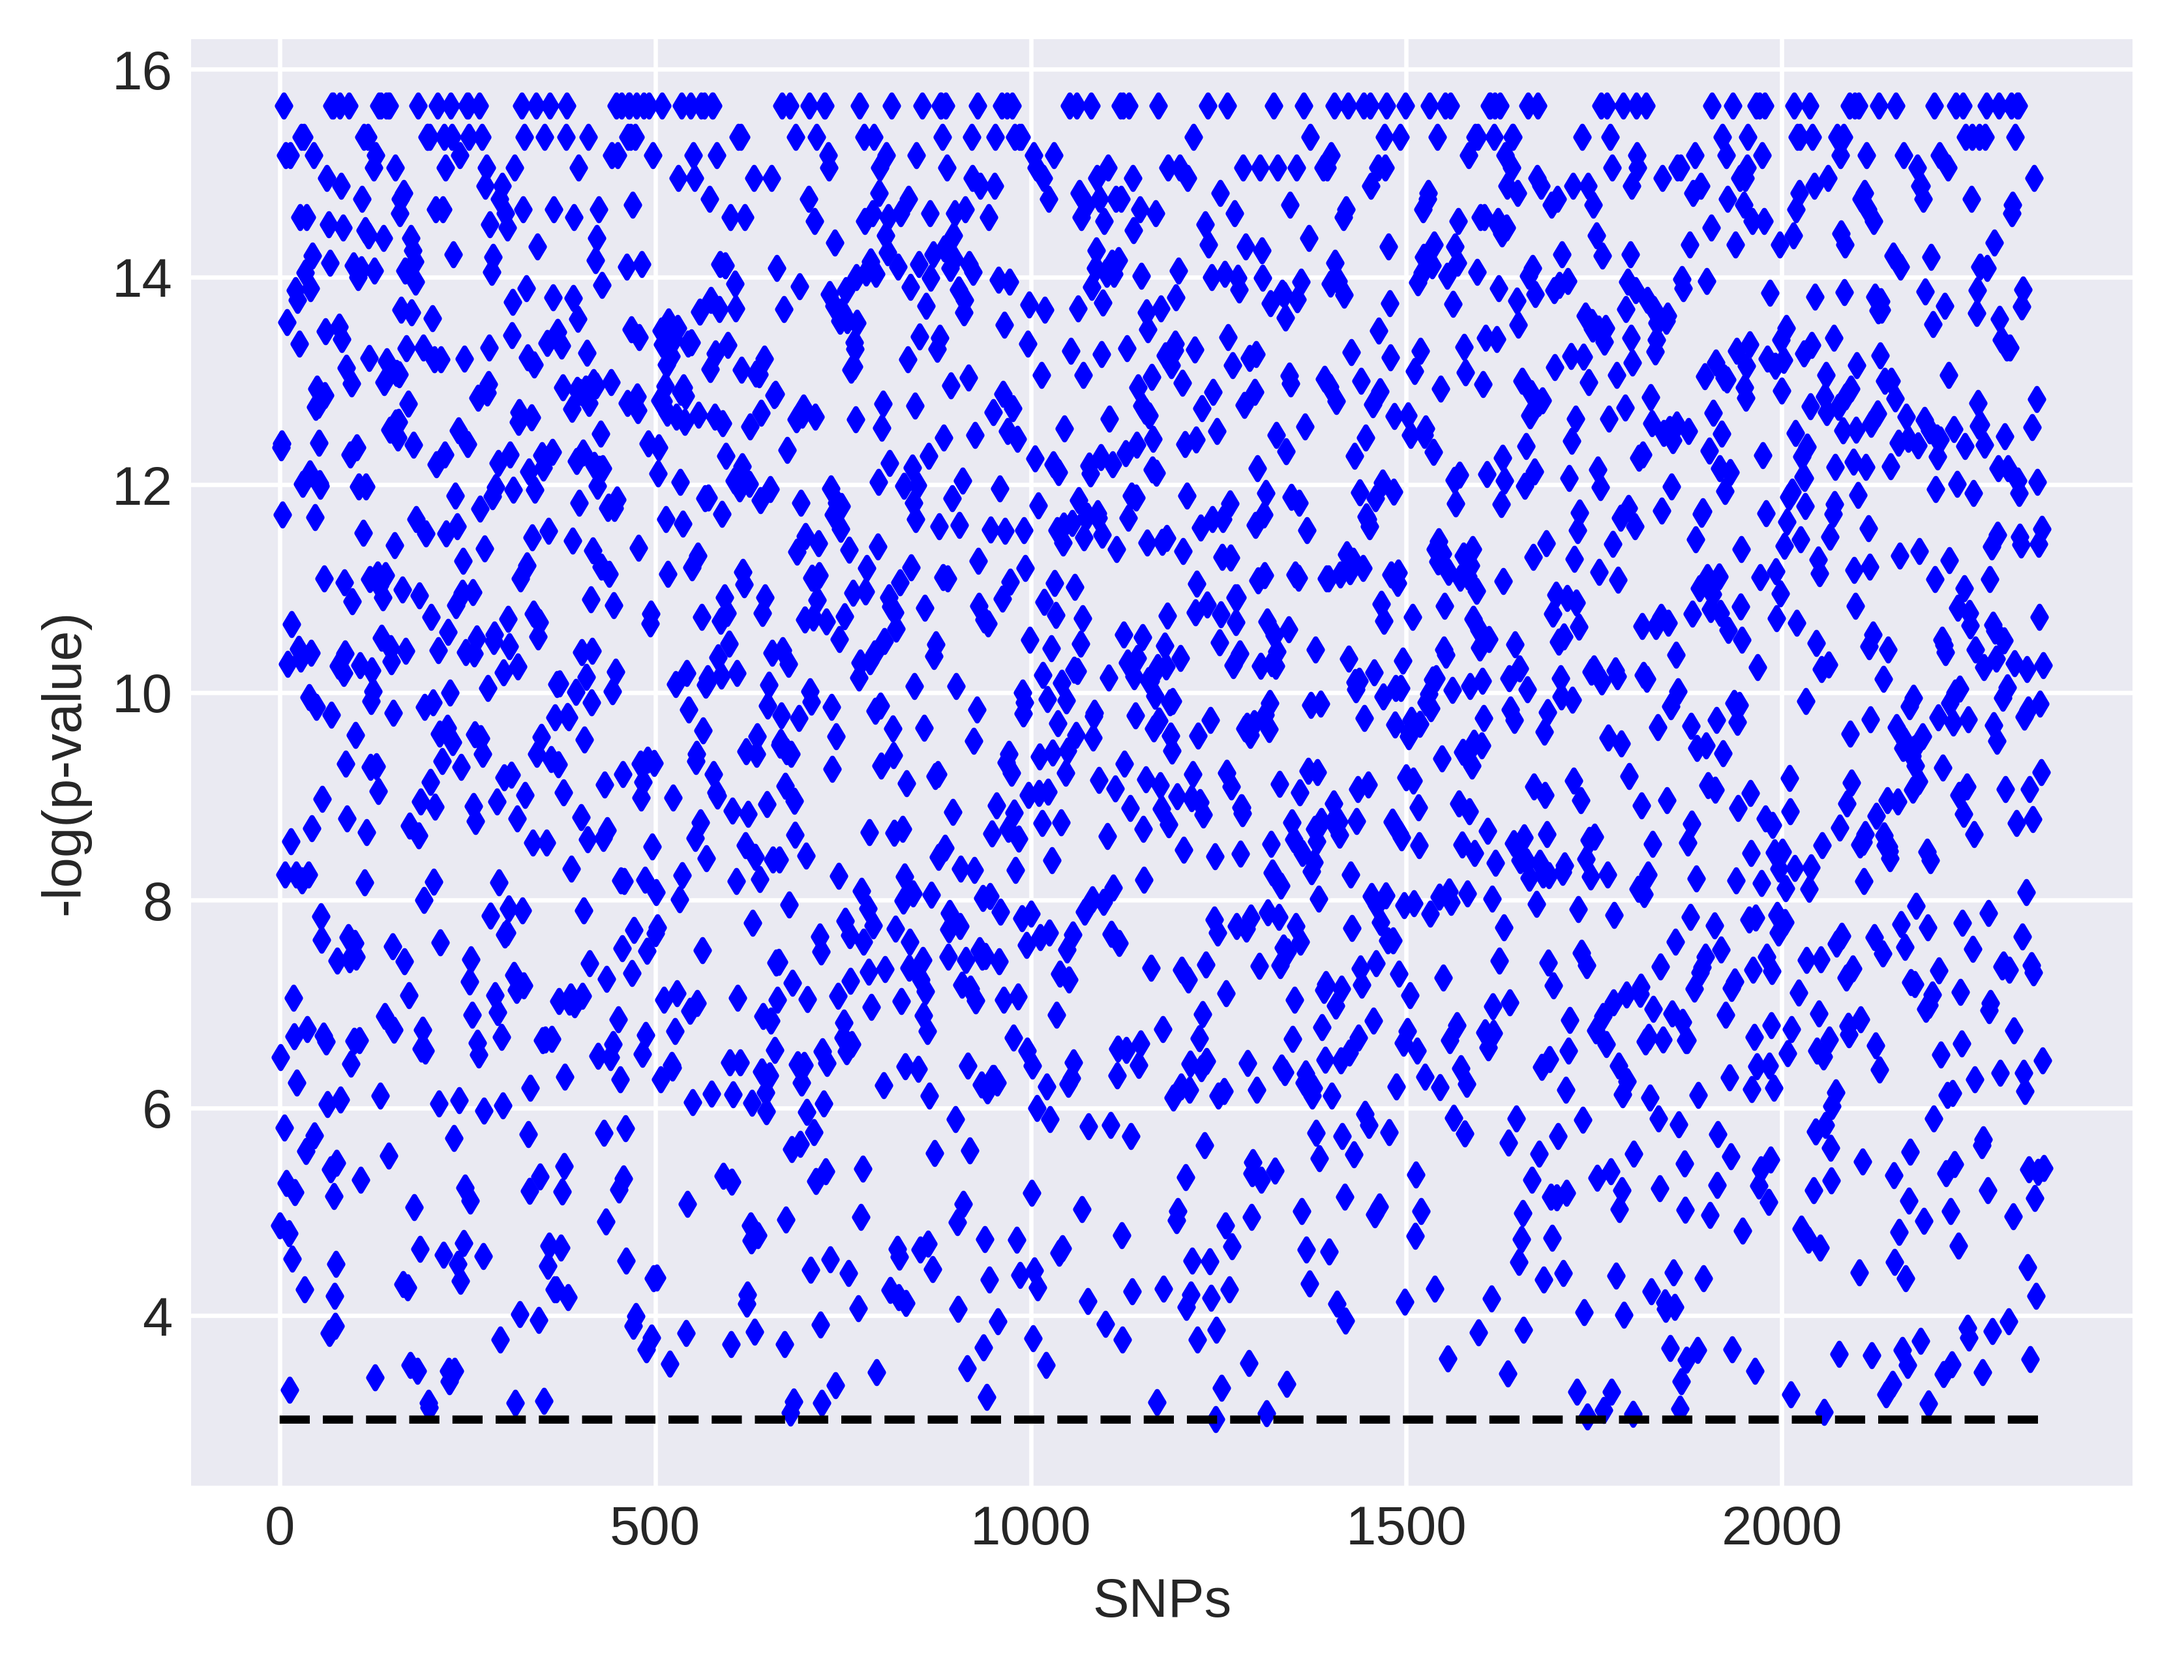
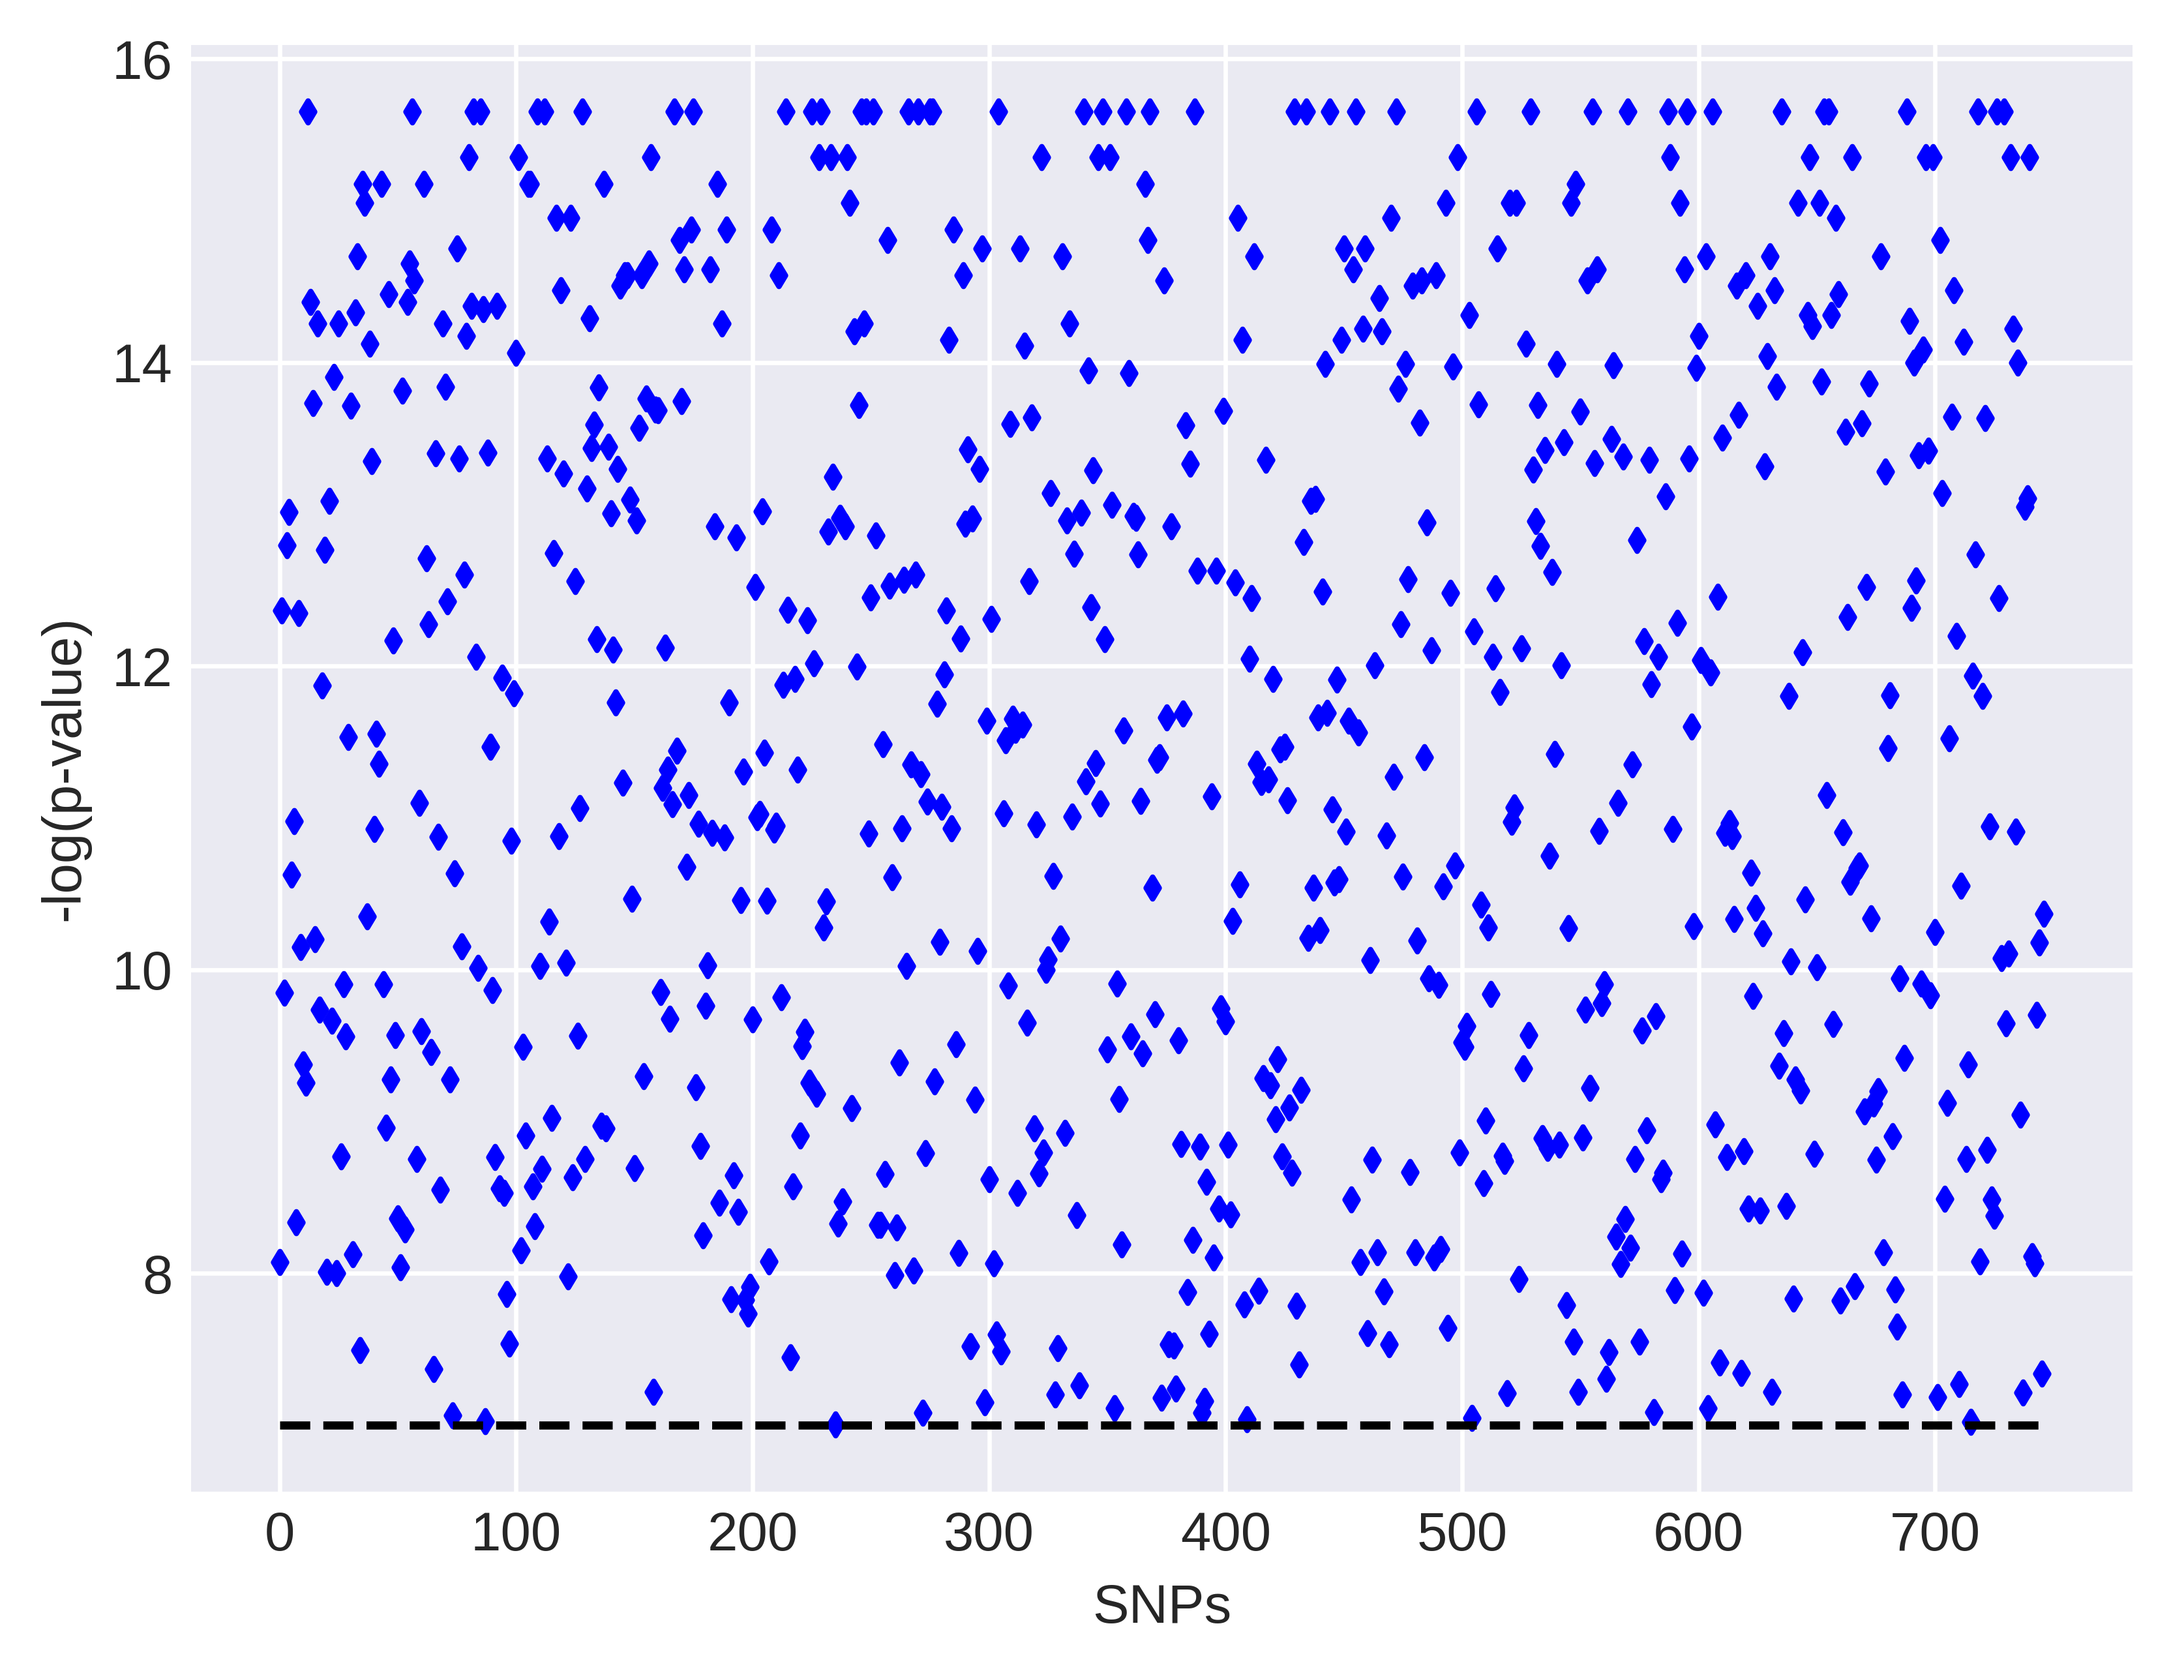
sorted significant SNP output

diff --git a/SimulatedAlleleCode/realdata_clustrat.py b/SimulatedAlleleCode/realdata_clustrat.py
@@ -45,7 +45,7 @@ if __name__ == '__main__':
     #print(' ')
     m = X.shape[0]
     n = X.shape[1]
-    pvalue = 1e-3
+    pvalue = 1e-7
 
     print('##################### Normalizing data...')
     norm_time = time.time()
@@ -129,6 +129,7 @@ if __name__ == '__main__':
     data_frame = pd.DataFrame(chroms)
     data_frame['SNPs'] = pd.Series(SNPs, index=data_frame.index)
     data_frame['pvals'] = pd.Series(pvals, index=data_frame.index)
+    data_frame = data_frame.sort_values(by='pvals')
     data_frame.to_csv('CluStrat_sigSNPs.txt', index = False, sep = ' ', header=False)
 
     CS = list(CS)

diff --git a/SimulatedAlleleCode/CluStrat.py b/SimulatedAlleleCode/CluStrat.py
@@ -185,6 +185,7 @@ def cluster(R, D, pops, status, pvalue, dele, sketch_flag):
                   intidx = np.unique(np.append(intidx,comb_intidx))
                   combset = list(np.unique(np.append(combset,pvidx)))
 
+            print('(running) Number of significant SNPs: ',len(combset))
                   # ############ Grabbing final pvals
                   # if len(intidx) > 0:
                   #     repeatidx = np.intersect1d(comb_intidx,combset).astype(int)

diff --git a/SimulatedAlleleCode/manhattan_plots.py b/SimulatedAlleleCode/manhattan_plots.py
@@ -21,7 +21,7 @@ def manhattan_plot(data, prefix, group=None):
     print(data.shape)
     # pvalue = 1e-3
     # thresh = (-1)*math.log10(25.0/data.shape[0])
-    thresh = (-1)*math.log10(1e-3)
+    thresh = (-1)*math.log10(1e-7)
     print(thresh)
 
     sigSNPs_idx = np.where( plotted_data>thresh )
